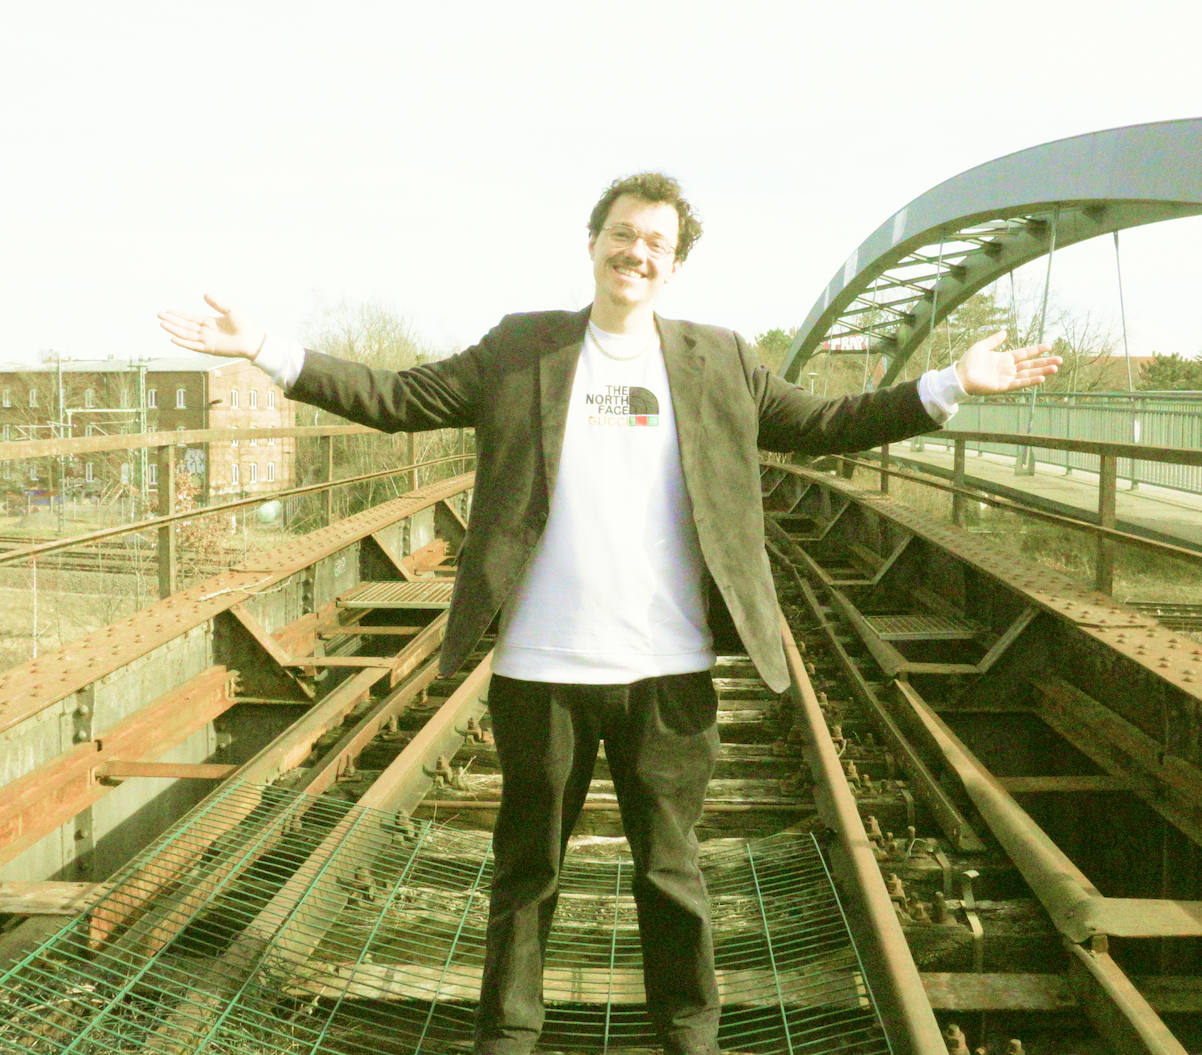
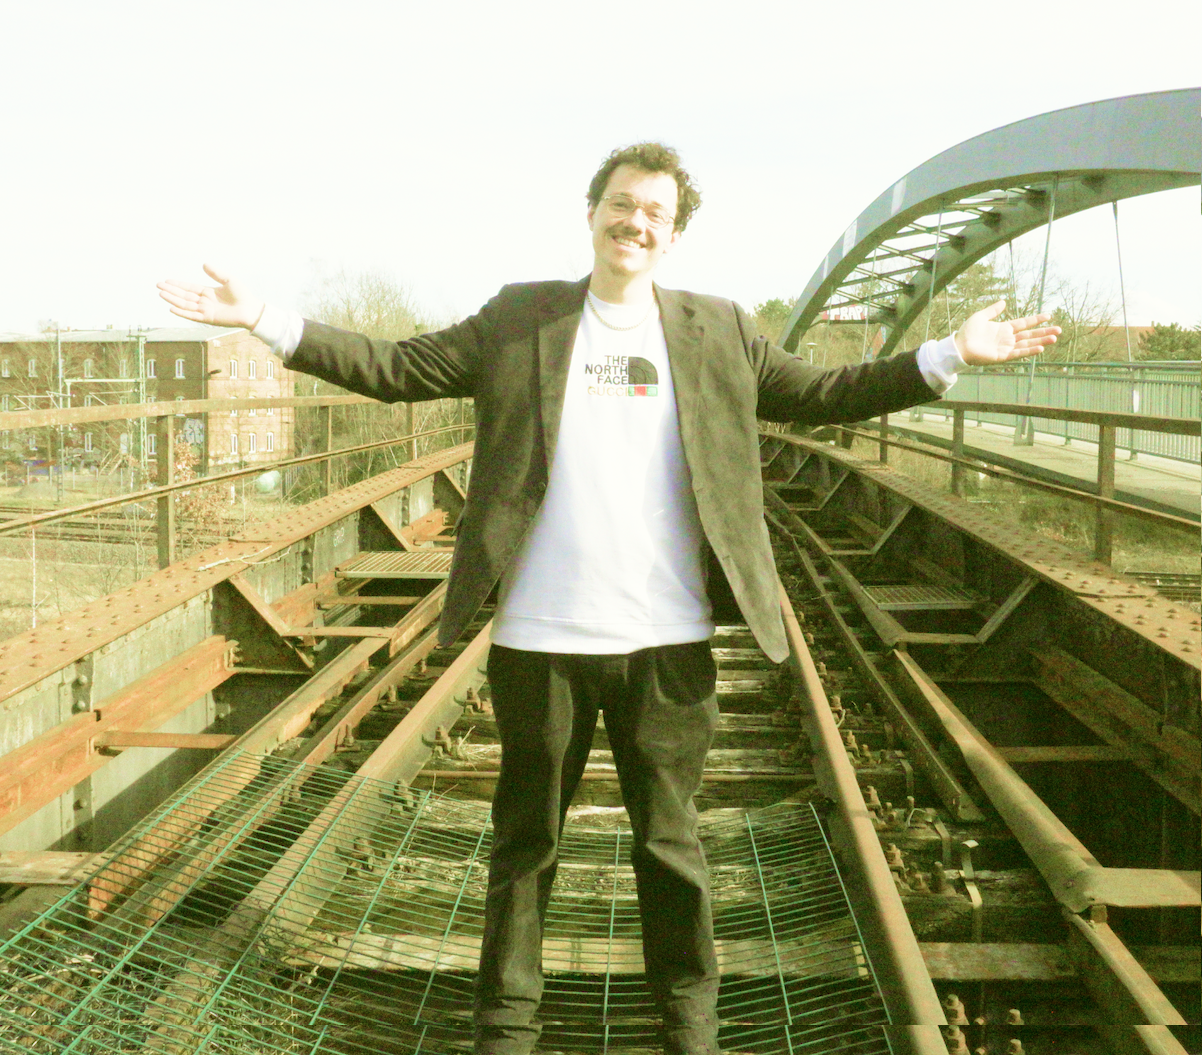
added head-toggle

diff --git a/src/app/components/hero.tsx b/src/app/components/hero.tsx
@@ -2,21 +2,37 @@
 
 import { useState } from "react";
 import { FaAngleDown, FaAngleUp } from "react-icons/fa";
-
+import Image from "next/image";
 export default function Hero() {
   const [isOpen, setIsOpen] = useState<boolean>(false);
+  const [showWebDevPhoto, setShowWebDevPhoto] = useState(false);
 
   function handleHi() {
     setIsOpen(!isOpen);
   }
+  function toggleWebDevPhoto() {
+    setShowWebDevPhoto(!showWebDevPhoto);
+  }
+
   return (
     <div>
       <div className="h-[15vh] w-full bg-backgroundwhite md:hidden"></div>
-      <section className="bg-cover bg-center h-[88vw] bg-[url('/images/hero.png')]">
-        <div className="grid grid-rows-[8vw_4.5vw_5vw_4vw_1vw_0vw_4.5vw] grid-cols-[2vw_38vw_29vw_3vw_28vw] gap-0 text-[clamp(1rem,0.5843rem+1.7738vw,2.5rem)] lowercase md:uppercase">
+
+      {/* <section className={`bg-cover bg-center h-[88vw] ${showWebDevPhoto ? "bg-[url('/images/hermirror.png')]" : "bg-[url('/images/hero.png')]"}`}></section> */}
+      <section
+        className={`bg-cover bg-center h-[88vw] ${
+          showWebDevPhoto
+            ? "bg-[url('/images/heromirror.png')]"
+            : "bg-[url('/images/hero.png')]"
+        }`}
+      >
+        <div className="grid grid-rows-[8vw_4.5vw_2vw_4vw_1vw_0vw_4.5vw] grid-cols-[2vw_38vw_29vw_3vw_28vw] gap-0 text-[clamp(1rem,0.5843rem+1.7738vw,2.5rem)] lowercase md:uppercase">
           <a
             href="#webdev"
             className="bg-handyellow rounded-[50%] flex justify-center items-center px-[10vw] py-[5vw] xs:p-[4vw] sm:p-[3vw] row-start-3 md:row-start-4 row-span-2 col-start-2"
+            onClick={toggleWebDevPhoto}
+            onMouseEnter={() => setShowWebDevPhoto(true)}
+            onMouseLeave={() => setShowWebDevPhoto(false)}
           >
             {" "}
             WEBENTWICKLUNG{" "}
